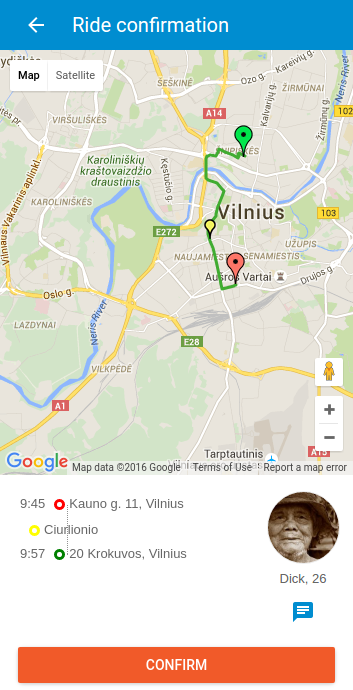
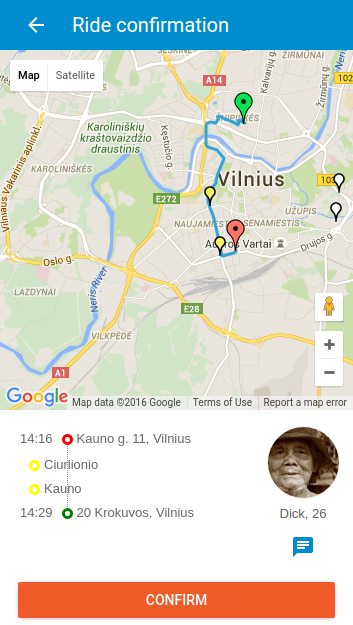
Refactored RideInfo into TripInfo

Changed region(s): [[0.0, 0.0, 1.0, 0.9728], [0.5921, 0.5776, 0.6232, 0.608]]

diff --git a/src/packages/carpool-view-flow/react/components/ride-info/TripInfo.jsx b/src/packages/carpool-view-flow/react/components/ride-info/TripInfo.jsx
@@ -1,0 +1,117 @@
+/*
+  Refactoring of RideInfo - RideInfo should be removed
+
+  View component to show itenary
+*/
+
+/*eslint no-prototype-builtins: "off"*/
+import React from 'react'
+import { config } from '../../config'
+import moment from 'moment'
+import { Avatar } from 'material-ui'
+import ChatIcon from 'material-ui/lib/svg-icons/communication/chat'
+import {L_mapAndWrap} from './lambda'
+/*global FlowRouter*/
+
+const d = console.log.bind(console);
+
+const destinationTitleStyle = {
+  marginLeft: 12,
+  paddingLeft: 12,
+  position: 'relative',
+}
+
+const rideInfoLineWrap = {
+  display: 'flex',
+  flexDirection: 'row',
+  marginBottom: 2,
+  paddingBottom: 4,
+}
+
+const circleStyle = {
+  width: 11,
+  height: 11,
+  background: '#fff',
+  borderRadius: '50%',
+  position: 'absolute',
+  left: -3,
+  top: 4,
+  borderWidth: '3px',
+  borderStyle: 'solid',
+}
+
+export default class TripInfo extends React.Component {
+  constructor(props) {
+    super(props)
+    this.gotoChat = this.gotoChat.bind(this);
+  }
+
+  gotoChat() {
+    //d("Open chat window", this.props);
+    FlowRouter.go("Chat", {cdUser: this.props.tripOwner});
+  }
+
+  renderItenaryLine(routePoint, color) {
+    circleStyle.borderColor = color;
+    return (
+      <div key={routePoint._id+"-"+routePoint.name} style={rideInfoLineWrap} data-cucumber="stops-on-route" >
+        {routePoint.time ? moment(routePoint.time).format('H:mm') : "--:--"}
+        <div style={destinationTitleStyle} data-cucumber="stop">
+          <div style={{...circleStyle}} />
+          <div data-cucumber={"route-"+routePoint.name}
+            style={{
+              height: 20,
+              overflow: 'hidden',
+              textOverflow: 'ellipsis',
+              whiteSpace: 'nowrap',
+              width: window.innerWidth - 185
+            }}
+          >
+            {routePoint.address}
+          </div>
+        </div>
+      </div>
+    )
+  }
+
+  render () {
+    const {itenary, tripOwner} = this.props;
+    const {colors} = config;
+    const itenaryStops = L_mapAndWrap(itenary, this.renderItenaryLine, colors.red, colors.yellow, colors.green);
+
+    return (
+      <div style={{display: 'flex', flexDirection: 'row', fontSize: 13}}>
+        <div style={{width: this.props.width - 100}}>
+          <div style={{display: 'flex', flexDirection: 'column', margin: 20, position: 'relative'}}>
+            <div style={{
+              position: 'absolute',
+              width: 0,
+              height: (25 * (itenaryStops.length-1)),
+              left: 47,
+              top: 10,
+              borderLeft: '1px dotted #929292',
+            }}>
+            </div>
+            {itenaryStops}
+          </div>
+        </div>
+        <div style={{display: 'flex', flexDirection: 'column', width: 100, alignItems: 'center'}}>
+          <Avatar src={tripOwner.driverPicture} size={75} style={{marginTop: 16}} />
+          <div style={{marginTop: 6, textAlign: 'center'}}>
+            {tripOwner.driverName.split(' ')[0] + ', ' + tripOwner.driverAge}
+          </div>
+          <div style={{marginTop: 12}}>
+            <ChatIcon data-cucumber="chat" color={config.colors.main} onClick={this.gotoChat} />
+          </div>
+        </div>
+      </div>
+    );
+  }
+}
+
+TripInfo.propTypes = {
+  // [A, sA, ... ,sB, B] - each point:
+  itenary: React.PropTypes.array,
+  tripOwner: React.PropTypes.object,
+  width: React.PropTypes.number.isRequired,
+}

diff --git a/src/packages/carpool-view-flow/react/your-trip/RequestRideScreen.jsx b/src/packages/carpool-view-flow/react/your-trip/RequestRideScreen.jsx
@@ -14,7 +14,6 @@ import RideInfoWithMap from '../components/ride-info/RideInfoWithMap.jsx';
 /*global carpoolService*/
 /*global getUserName*/
 /*global Meteor*/
-/*global _*/
 
 export default class RequestRide extends React.Component {
 
@@ -42,7 +41,7 @@ export default class RequestRide extends React.Component {
   }
 
   render () {
-    const {progress, drive, ride} = this.props;
+    const {progress, drive, ride, user } = this.props;
 
     if (progress.getProgress() != 100) {
       return (
@@ -51,12 +50,6 @@ export default class RequestRide extends React.Component {
         </section>
       );
     } else {
-      //console.log("Trip", trip);
-      const user = Meteor.users.findOne({_id: drive.owner});
-      drive.driverName = getUserName(user);
-      drive.driverAge = 26;
-      drive.driverPicture = getUserPicture(user);
-
       const isRequested = _(drive.requests).findWhere({userId: Meteor.userId()});
       //console.log("Requested drive", isRequested);
 
@@ -64,7 +57,9 @@ export default class RequestRide extends React.Component {
 
       return (
         <div data-cucumber="screen-your-ride">
-          <RideInfoWithMap width={this.props.width} height={this.props.height - bottomPartHeight} ride={ride} drive={drive} />
+          <RideInfoWithMap width={this.props.width} height={this.props.height - bottomPartHeight}
+            ride={ride} drive={drive} user={user}
+          />
           <div style={{
             marginTop: 18,
             textAlign: 'center',
@@ -106,7 +101,8 @@ RequestRide.propTypes = {
   ride: React.PropTypes.object,
   stops: React.PropTypes.array,
   progress: React.PropTypes.object,
-  trip: React.PropTypes.object
+  trip: React.PropTypes.object,
+  user: React.PropTypes.object
 };
 
 export default createContainer(({tripId, rideId}) => {
@@ -114,10 +110,12 @@ export default createContainer(({tripId, rideId}) => {
   const drive = carpoolService.pullOneTrip({_id: tripId}, progress.setProgress.bind(progress, 'oneTrip'));
   const ride = rideId ? carpoolService.pullOneTrip({_id: rideId}, progress.setProgress.bind(progress, 'ride')) : null;
   const stops = carpoolService.pullStops(progress.setProgress.bind(progress, 'stops'));
+  const user = drive && Meteor.users.findOne({_id: drive.owner});
   return {
     progress,
     drive,
     ride,
     stops,
+    user
   };
 }, RequestRide);

diff --git a/src/packages/carpool-view-flow/react/components/ride-info/RideInfoWithMap.jsx b/src/packages/carpool-view-flow/react/components/ride-info/RideInfoWithMap.jsx
@@ -1,10 +1,52 @@
 import React from 'react';
 import GoogleMap from '../map/GoogleMap.jsx';
-import RideInfo from './RideInfo.jsx';
+import { getUserPicture } from '../../api/UserPicture.coffee'
+import TripInfo from './TripInfo.jsx';
+const d = console.log.bind(console);
+
+/*global getUserName*/
 
 // TODO Make this work and use this
 export default class RideInfoWithMap extends React.Component {
+
+  createItenary(ride, drive) {
+    let itenary = [];
+    itenary.push({
+      _id: drive._id,
+      name: "dA",
+      address: drive.fromAddress,
+      time: drive.aTime
+    });
+    drive.stops.forEach((stop)=>{
+      itenary.push({
+        _id: stop._id,
+        name: "st",
+        address: stop.title,
+        time: undefined
+      });
+    });
+    itenary.push({
+      _id: drive._id,
+      name: "dB",
+      address: drive.toAddress,
+      time: drive.bTime
+    });
+    return itenary;
+  }
+
+  formDriveOwner(user) {
+    if(null == user) {
+      return {}
+    }
+    return {
+      driverName: getUserName(user),
+      driverAge: 26,
+      driverPicture: getUserPicture(user)
+    }
+  }
+
   render () {
+    const {ride, drive, user} = this.props;
     const rideInfoHeight = 215
     const mapHeight = this.props.height - rideInfoHeight
 
@@ -16,9 +58,12 @@ export default class RideInfoWithMap extends React.Component {
         height: this.props.height,
       }}>
         <div style={{ height: mapHeight, width: this.props.width }}>
-          <GoogleMap ride={this.props.ride} trip={this.props.drive} />
+          <GoogleMap ride={ride} trip={drive} />
         </div>
-        <RideInfo ride={this.props.ride} drive={this.props.drive} width={this.props.width} height={rideInfoHeight} />
+        <TripInfo itenary={this.createItenary(ride, drive)}
+          tripOwner={this.formDriveOwner(user)}
+          width={this.props.width} height={rideInfoHeight}
+        />
       </div>
     );
   }
@@ -29,4 +74,5 @@ RideInfoWithMap.propTypes = {
   height: React.PropTypes.number.isRequired,
   ride: React.PropTypes.object,
   drive: React.PropTypes.object,
+  user: React.PropTypes.object
 }

diff --git a/src/packages/carpool-view-flow/react/components/map/GoogleMap.jsx b/src/packages/carpool-view-flow/react/components/map/GoogleMap.jsx
@@ -107,7 +107,7 @@ export default class ReactMap extends React.Component {
        </section>
      );
    } else {
-     const routeColor = (undefined === ride) ? config.colors.lightBlue : config.colors.green;
+     const routeColor = (null === ride) ? config.colors.lightBlue : config.colors.green;
      const tripPolylineOptions = drive && {
        path: google.maps.geometry.encoding.decodePath(drive.path),
        strokeOpacity: 0.5,

diff --git a/src/packages/carpool-view-flow/react/config.js b/src/packages/carpool-view-flow/react/config.js
@@ -11,6 +11,9 @@ export const config = {
     lightBlue: '#33A4D9',
     success: '#40AC31',
     textColor: '#666',
+    yellow: "yellow",
+    red: "red",
+    green: "green"
   },
   font: 'Roboto, sans-serif',
 }
